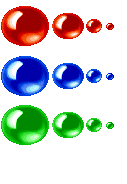
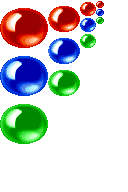
merge de bombolles amb tot

diff --git a/OpenGL_VS2015/2DGame/02-Bubble/02-Bubble/Scene.cpp b/OpenGL_VS2015/2DGame/02-Bubble/02-Bubble/Scene.cpp
@@ -53,6 +53,30 @@ void Scene::init1()
 	map->setGbS(&gsBcks);
 	projection = glm::ortho(0.f, float(SCREEN_WIDTH), float(SCREEN_HEIGHT), 0.f);
 	
+	bubble1 = new Bubble();
+	bubble1->init(glm::ivec2(SCREEN_X, SCREEN_Y), texProgram, 0, 10 * map->getTileSize(), true);
+	bubble1->setPosition(glm::vec2(10 * map->getTileSize(), 10 * map->getTileSize()));
+	bubble1->setTileMap(map);
+	bubbles.insert(bubble1);
+
+	bubble2 = new Bubble();
+	bubble2->init(glm::ivec2(SCREEN_X, SCREEN_Y), texProgram, 1, 10 * map->getTileSize(), true);
+	bubble2->setPosition(glm::vec2(10 * map->getTileSize(), 10 * map->getTileSize()));
+	bubble2->setTileMap(map);
+	bubbles.insert(bubble2);
+
+	bubble3 = new Bubble();
+	bubble3->init(glm::ivec2(SCREEN_X, SCREEN_Y), texProgram, 2, 10 * map->getTileSize(), true);
+	bubble3->setPosition(glm::vec2(10 * map->getTileSize(), 10 * map->getTileSize()));
+	bubble3->setTileMap(map);
+	bubbles.insert(bubble3);
+
+	bubble4 = new Bubble();
+	bubble4->init(glm::ivec2(SCREEN_X, SCREEN_Y), texProgram, 3, 10 * map->getTileSize(), true);
+	bubble4->setPosition(glm::vec2(10 * map->getTileSize(), 10 * map->getTileSize()));
+	bubble4->setTileMap(map);
+	bubbles.insert(bubble4);
+
 	backGround->addKeyframe(0, glm::vec2(0.0, 0.0));
 	backGround->changeAnimation(0);
 	whatScene = 1;
@@ -110,6 +134,7 @@ void Scene::flush() {
 	wrs.clear();
 	drops.clear();
 	dynObjDestr.clear();
+	bubbles.clear();
 	delete backGround;
 	delete ui;
 }
@@ -153,6 +178,9 @@ void Scene::update(int deltaTime)
 				(*it)->update(deltaTime);
 			}
 			for (std::set<Drops*>::iterator it = drops.begin(); it != drops.end(); ++it) {
+				(*it)->update(deltaTime);
+			}
+			for (std::set<Bubble*>::iterator it = bubbles.begin(); it != bubbles.end(); ++it) {
 				(*it)->update(deltaTime);
 			}
 			wireCollisions();
@@ -202,6 +230,9 @@ void Scene::render()
 	for (std::set<Drops*>::iterator it = drops.begin(); it != drops.end(); ++it) {
 		(*it)->render();
 	}
+	for (std::set<Bubble*>::iterator it = bubbles.begin(); it != bubbles.end(); ++it) {
+		(*it)->render();
+	}
 	player->render();
 	ui->render();
 	
@@ -244,11 +275,11 @@ void Scene::wireCollisions() {
 		if (contact != '\0' && contact != 'v' && contact != 'b' && contact != 'n' && contact != 'V' && contact != 'B' && contact != 'N') {
 			wr = *it;
 		}
+		glm::ivec2 pWr = (*it)->posObj();
 		GlassBlock* gb = NULL;
 		for (std::set<GlassBlock*>::iterator it2 = gsBcks.begin(); it2 != gsBcks.end(); ++it2) {
 			glm::ivec2 pGB = (*it2)->posObj();
 			glm::ivec2 sGB = (*it2)->sizeObj();
-			glm::ivec2 pWr = (*it)->posObj(); 
 			if (pGB.y <= pWr.y && pGB.y + sGB.y >= pWr.y && pGB.x <= pWr.x + 4 && pGB.x + sGB.x >= pWr.x + 4) {
 				(*it2)->destroy();
 				gb = (*it2);
@@ -262,6 +293,30 @@ void Scene::wireCollisions() {
 			instanceDrop(centreBlock);
 			dynObjDestr.insert(gb);
 			gsBcks.erase(gb);
+		}
+		std::set<Bubble*>::iterator it2 = bubbles.begin();
+		while (it2 != bubbles.end()) {
+			if ((*it2)->impacte(pWr)) {
+				glm::ivec2 pos = (*it2)->getPos();
+				int type = (*it2)->getType();
+				if (type % 4 != 0) {
+					for (int b = 0; b < 2; b++) {
+						Bubble* bubble = new Bubble();
+						bubble->init(glm::ivec2(SCREEN_X, SCREEN_Y), texProgram, type - 1, pos.y, b);
+						bubble->setPosition(glm::vec2(pos.x + b * 10, pos.y + b * 10));
+						bubble->setTileMap(map);
+						bubbles.insert(bubble);
+					}
+				}
+				std::set<Bubble*>::iterator it3 = it2;
+				it2++;
+				bubbles.erase(*it3);
+				wr = *it;
+			}
+			else
+			{
+				++it2;
+			}
 		}
 	}
 	if (wr != NULL) {

diff --git a/OpenGL_VS2015/2DGame/02-Bubble/02-Bubble/TileMap.cpp b/OpenGL_VS2015/2DGame/02-Bubble/02-Bubble/TileMap.cpp
@@ -338,6 +338,60 @@ char TileMap::wahtTile(glm::vec2 tile) {
 	return aux;
 }
 
+vector<glm::ivec2> TileMap::getDownTilePos(const glm::ivec2& pos, const glm::ivec2& size) const
+{
+	int x0, x1, y;
+
+	x0 = pos.x / tileSize;
+	x1 = (pos.x + size.x - 1) / tileSize;
+	y = (pos.y + size.y - 1) / tileSize;
+	vector<glm::ivec2> tiles = vector<glm::ivec2>();
+	int i = 0;
+	for (int x = x0 - 1; x < x1 + 1; x++)
+	{
+		char aux = map[y * mapSize.x + x];
+		if (aux != '\0' && aux != 'v' && aux != 'b' && aux != 'n' && aux != 'V' && aux != 'B' && aux != 'N' && aux != '1')
+		{
+			tiles.push_back(glm::vec2(x * tileSize, y * tileSize));
+		}
+		i = i + 1;
+
+		for (auto it = (*objs).begin(); it != (*objs).end(); ++it) {
+			glm::ivec2 posA = (*it)->posObj();
+			glm::ivec2 sizeA = (*it)->sizeObj();
+			int xe = posA.x / tileSize;
+			int xd = xe + size.x / tileSize;
+			int ya = posA.y / tileSize;
+			if (x >= xe && x <= xd && y == ya) {
+				tiles.push_back(glm::vec2(x * tileSize, y * tileSize));
+			}
+		}
+	}
+
+	return tiles;
+}
+
+bool TileMap::circleRect(int cx, int cy, int radius, int rx, int ry, int rw, int rh, int* posY) {
+
+	int testX = cx;
+	int testY = cy;
+
+	if (cx < rx)         testX = rx;      // test left edge
+	else if (cx > rx + rw) testX = rx + rw;   // right edge
+	if (cy < ry)         testY = ry;      // top edge
+	else if (cy > ry + rh) testY = ry + rh;   // bottom edge
+
+	int distX = cx - testX;
+	int distY = cy - testY;
+	float distance = sqrt((distX * distX) + (distY * distY));
+
+	if (distance <= radius) {
+		*posY = ry - (2 * radius);
+		return true;
+	}
+	return false;
+}
+
 glm::vec2 TileMap::decodeMap(char l) {
 	switch (l) {
 	case '1':

diff --git a/OpenGL_VS2015/2DGame/02-Bubble/02-Bubble/Bubble.h b/OpenGL_VS2015/2DGame/02-Bubble/02-Bubble/Bubble.h
@@ -4,28 +4,40 @@
 
 #include "Sprite.h"
 #include "TileMap.h"
-
+#include <vector>
 
 class Bubble
 {
 
 public:
-	void init(const glm::ivec2& tileMapPos, ShaderProgram& shaderProgram);
+	void init(const glm::ivec2& tileMapPos, ShaderProgram& shaderProgram, int bubble, int Yini, bool dir);
 	void update(int deltaTime);
 	void render();
 
 	void setTileMap(TileMap* tileMap);
 	void setPosition(const glm::vec2& pos);
 
+	bool impacte(glm::ivec2 posCable);
+	glm::ivec2 getPos();
+	int getType();
+
+
 private:
-	bool jumping;
+	bool jumping, first_jump;
 	bool fwd;
-	double Caiguda_en_y;
 	glm::ivec2 tileMapDispl, posBubble;
-	int jump_x,colission_cooldown;
+	int jump_x, colission_cooldown, Yini;
+	glm::ivec2 tam_txt;
+	glm::vec2 pos_txt, part_txt;
 	Texture spritesheet;
 	Sprite* sprite;
 	TileMap* map;
+	vector<int> timers;
+	vector<glm::ivec2> blocs;
+	int bub;
+
+	glm::vec2 getTextPosBubble(int type);
+	void infoBubble(glm::ivec2* tam, glm::vec2* part, int type);
 
 };
 

diff --git a/OpenGL_VS2015/2DGame/02-Bubble/02-Bubble/TileMap.h b/OpenGL_VS2015/2DGame/02-Bubble/02-Bubble/TileMap.h
@@ -4,6 +4,7 @@
 
 #include <glm/glm.hpp>
 #include <set>
+#include <vector>
 #include "Texture.h"
 #include "ShaderProgram.h"
 
@@ -41,6 +42,8 @@ public:
 	void closestLadder(const glm::ivec2& pos, const glm::ivec2& size, int* posX, int* posY) const;
 	void setGbS(std::set<GlassBlock*>* dObj);
 	char wahtTile(glm::vec2 tile);
+	vector<glm::ivec2> getDownTilePos(const glm::ivec2& pos, const glm::ivec2& size) const;
+	bool circleRect(int cx, int cy, int radius, int rx, int ry, int rw, int rh, int* posY);
 
 private:
 	bool loadLevel(const string& levelFile);

diff --git a/OpenGL_VS2015/2DGame/02-Bubble/02-Bubble/Scene.h b/OpenGL_VS2015/2DGame/02-Bubble/02-Bubble/Scene.h
@@ -12,6 +12,7 @@
 #include "PowerUp.h"
 #include "Food.h"
 #include "Interface.h"
+#include "Bubble.h"
 
 
 // Scene contains all the entities of our game.
@@ -50,6 +51,7 @@ private:
 	std::set<GlassBlock*> gsBcks;
 	std::set<Wire*> wrs;
 	std::set<Drops*> drops;
+	std::set<Bubble*> bubbles;
 	ShaderProgram texProgram;
 	float currentTime;
 	glm::mat4 projection;
@@ -64,6 +66,10 @@ private:
 	Interface* ui;
 	int whatScene;
 	int startCd;
+	Bubble* bubble1;
+	Bubble* bubble2;
+	Bubble* bubble3;
+	Bubble* bubble4;
 };
 
 
